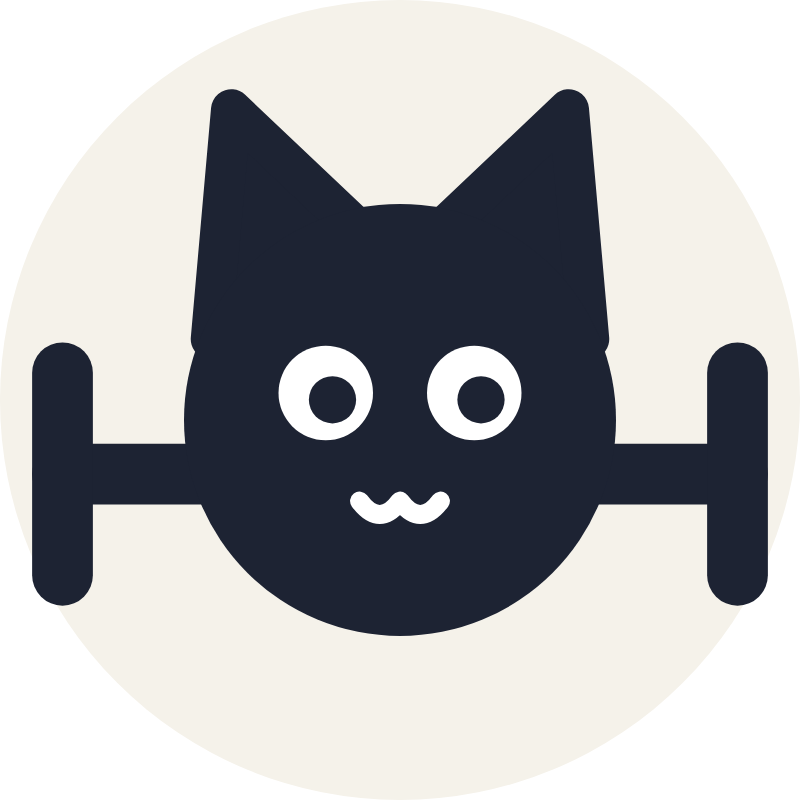
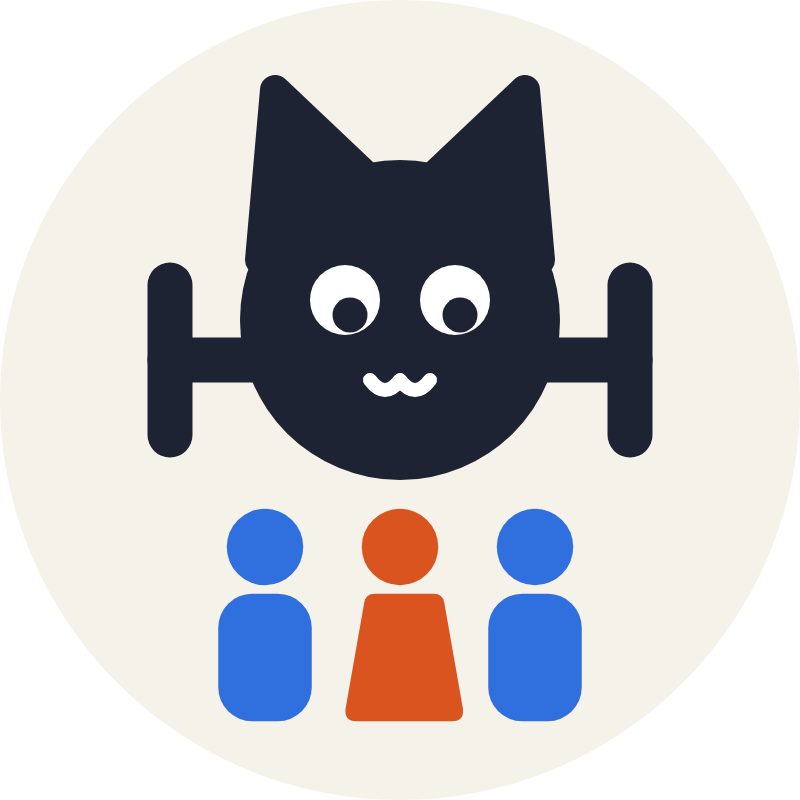
アイコンをチャンネル名に合わせて作り直す（ゴサが人型3人を見下ろして数えている）
Claude-Session: https://claude.ai/code/session_01JsSkTGLquW78NraFHbNWmJ

diff --git a/assets/characters/gosa/make_gosa.py b/assets/characters/gosa/make_gosa.py
@@ -6,7 +6,7 @@
 出力（このフォルダの下）:
     svg/<表情>.svg        表情ごとの立ち絵（明るい背景用）
     svg/<表情>_dark.svg   暗い背景用の反転版（白い体に墨の目。2026-10-04 決定）
-    icon.svg              チャンネルのアイコン（円の中に顔。小さく表示してもひげが見えるよう太め）
+    icon.svg              チャンネルのアイコン（ゴサが人型3人を見下ろして数えている。小さく表示してもひげが見えるよう太め）
     gosa.json             表情の設定。動画の部品（render/src/lib/Gosa.tsx）がこれを読み、表情の間をなめらかにつなぐ
 
 決まり（docs/concepts/2026-10-04-gosa-cat.html の案C を仕上げたもの）:
@@ -170,14 +170,28 @@ def svg(inner: str, title: str) -> str:
             f"<title>{title}</title>{inner}</svg>\n")
 
 
+# アイコン用の人型（render/src/lib/Figure.tsx の立ち姿と同じ形・色。人はデータなので青とオレンジを使ってよい）
+PAPER = "#F5F2EA"
+MALE, FEMALE = "#2F6FDE", "#D9541E"
+
+
+def person(kind: str, x: float, y: float, s: float) -> str:
+    body = ('<rect x="-11" y="-25" width="22" height="30" rx="8"/>' if kind == "male" else
+            '<path d="M-8 -25 h16 q2 0 2.4 2 l4.4 25 q0.4 3 -2.6 3 h-22.4 q-3 0 -2.6 -3 l4.4 -25 q0.4 -2 2.4 -2 z"/>')
+    return (f'<g transform="translate({x},{y}) scale({s})" fill="{MALE if kind == "male" else FEMALE}">'
+            f'<circle cx="0" cy="-36" r="9"/>{body}</g>')
+
+
 def icon() -> str:
-    face = (ears("normal") + whisker(-1, 50, width=9, cap=15) + whisker(1, 50, width=9, cap=15)
+    """チャンネル「吾輩は数える猫である」のアイコン：ゴサが下の人型3人を見下ろして数えている（2026-10-04）。"""
+    face = (ears("normal") + whisker(-1, 46, width=9, cap=15) + whisker(1, 46, width=9, cap=15)
             + f'<circle r="{BODY_R}" fill="{INK}"/>'
-            + eyes("normal") + mouth("w"))
+            + eyes("normal", look=(0, 2)) + mouth("w"))
+    people = person("male", -27, 60, 0.85) + person("female", 0, 60, 0.85) + person("male", 27, 60, 0.85)
     return ('<svg xmlns="http://www.w3.org/2000/svg" viewBox="-80 -80 160 160" width="512" height="512">'
             '<title>吾輩は数える猫である アイコン</title>'
-            '<circle r="80" fill="#F5F2EA"/>'
-            f'<g transform="translate(0,4) scale(1.35)">{face}</g></svg>\n')
+            f'<circle r="80" fill="{PAPER}"/>'
+            f'<g transform="translate(0,-16)">{face}</g>{people}</svg>\n')
 
 
 def main():

diff --git a/docs/decisions.md b/docs/decisions.md
@@ -12,6 +12,7 @@
   - 変えないもの：キャッチコピー「世の中の"たぶん"に、誤差つきの答えを。」、ゴサ（ひげ＝確かさ）、部品の名前（今日の答え合わせ・判定の「答え合わせ」など。名前から外れてもコーナー名として使う）、再生リスト名。
   - 空き確認（2026-10-04、クラウドから）：YouTube の @ハンドル `@kazoeru_neko`・`@kazoeruneko`・`@数える猫`・`@吾輩は数える猫である` は空き（404）。YouTube のチャンネル検索で同名はない。「吾輩は猫である」を名前に含む猫動画のチャンネルは多いので、検索では「数える猫」で見つけてもらう。X・TikTok・商標（J-PlatPat）は未確認。登録するまでは他人に取られうるので、早めに押さえる。
   - 経緯：`docs/concepts/2026-10-04-names-2.md` の候補（「通説の答え合わせ」など）は採らず、もじりの名前を出し直した中から選んだ（同ファイルの追記）。
+  - アイコンは、ゴサが人型3人を見下ろして数えている絵に作り直した（`assets/characters/gosa/icon_800.png`）。
   - 未決定：名前に猫が入ったので、ゴサの出番（いまは画面の1割以下、男女の対立の回はサムネイルに出さない）を増やすか。
 - 2026-10-04：**1本目を作ってみて、ブランドの決まりを直す**（オーナー「提案通りに修正してOK」）。`docs/brand.md`・`CLAUDE.md`・`docs/script-style.md`・テンプレートに反映。
   - 物語の主人公を**番号で呼ばない**（「27番さん」は失礼で囚人のよう、とオーナー）。名札は役割と年齢、声では役割か「彼・彼女」。「○番さん」の決定（部品の名前）を改める。
